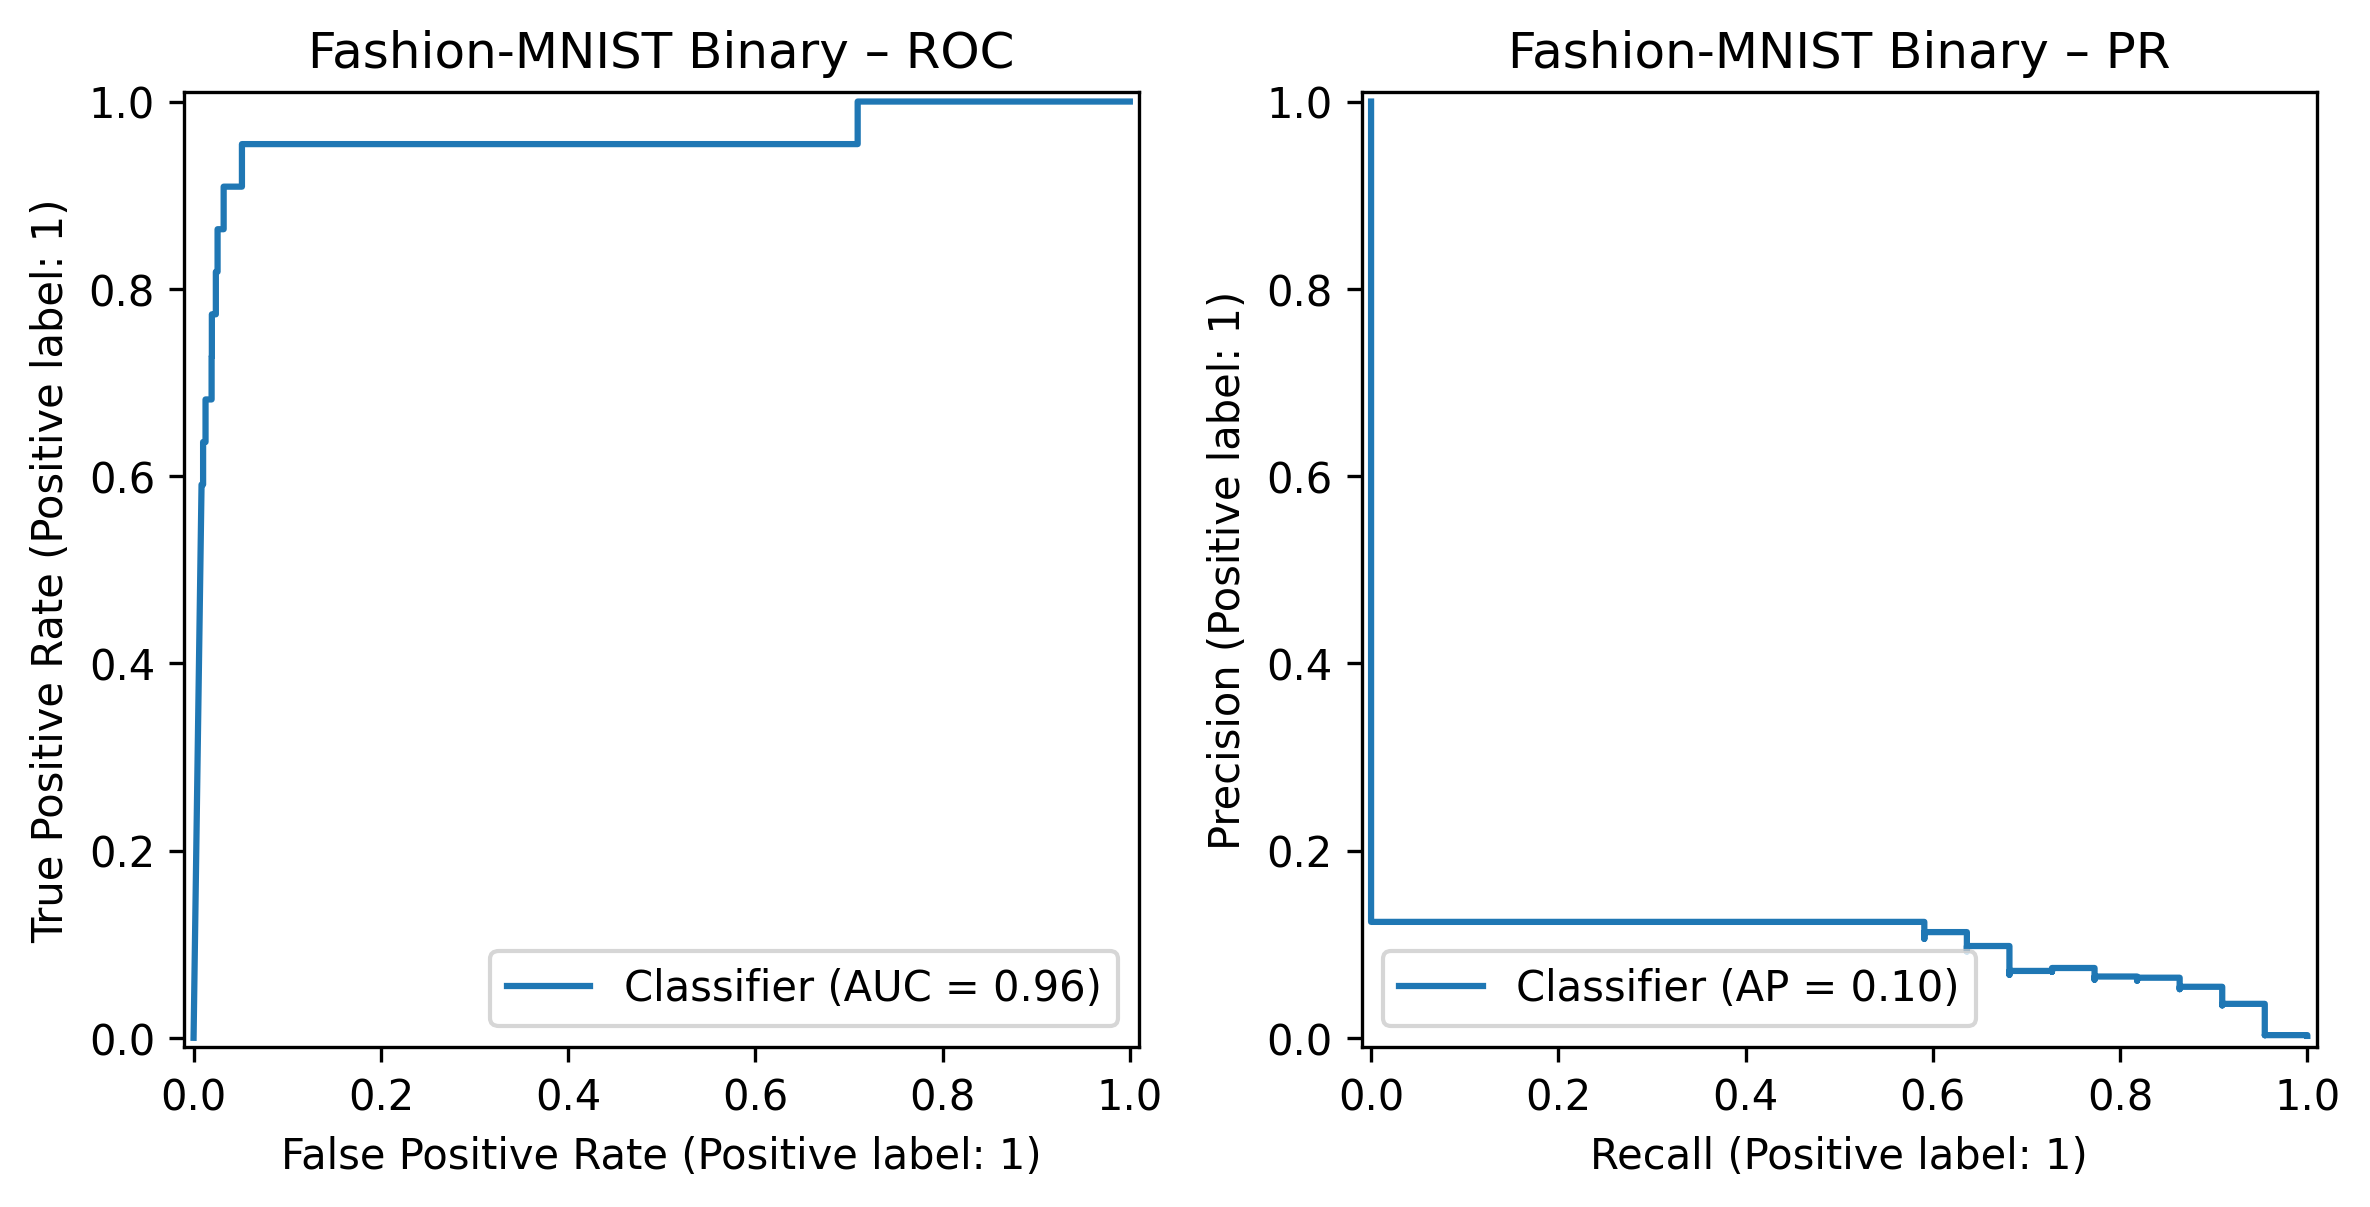
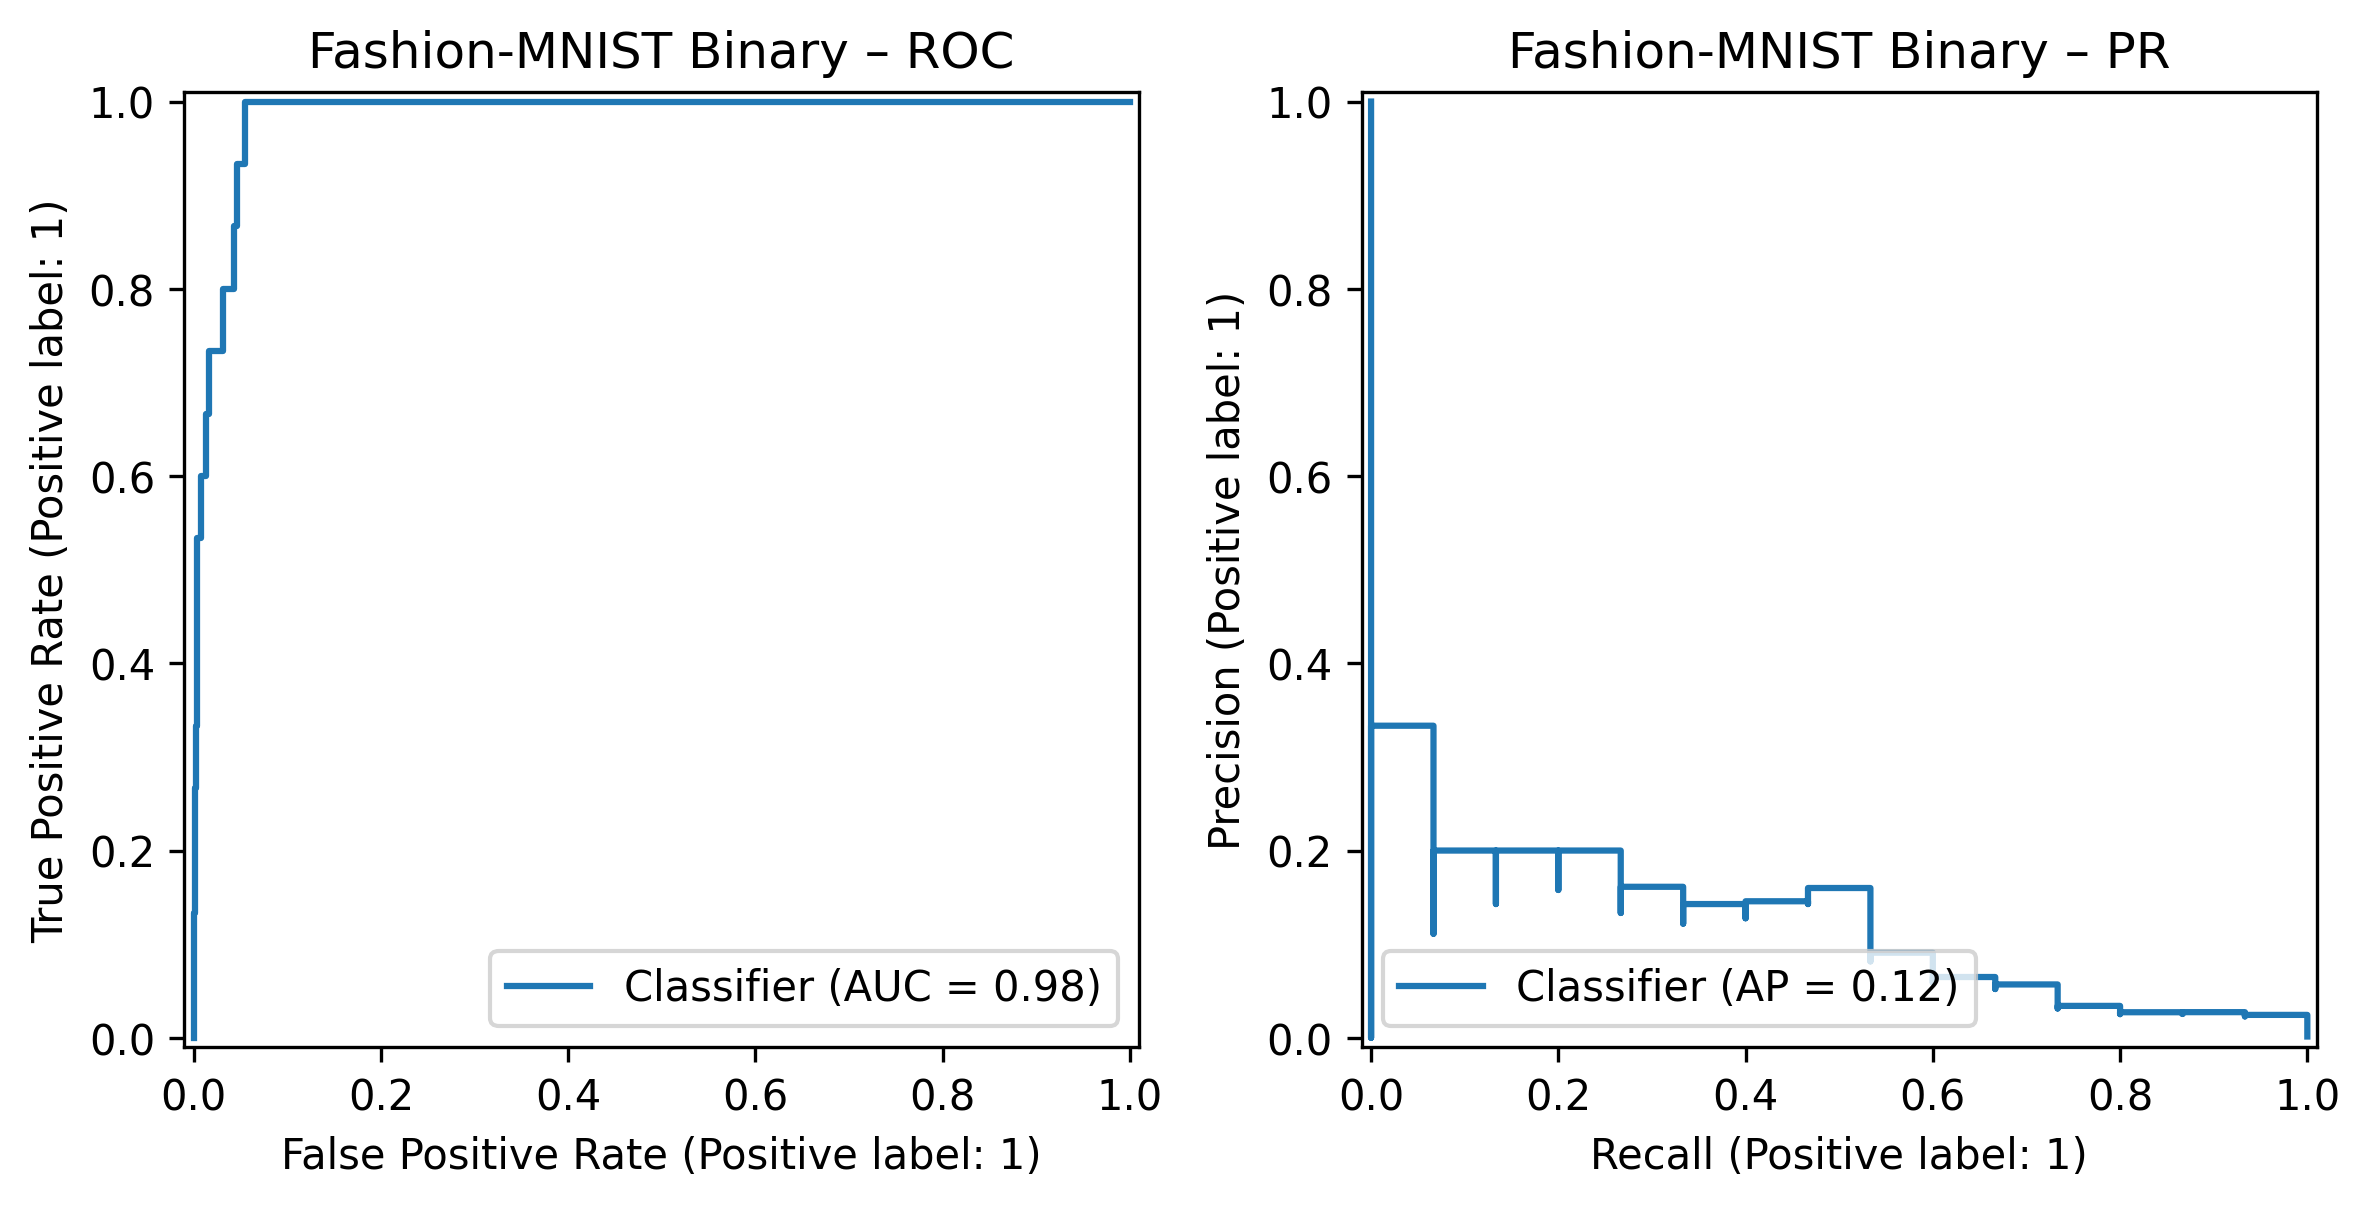
New Graphs and Final Adjustments

diff --git a/main.tex b/main.tex
@@ -101,12 +101,18 @@ and confusion matrices. We evaluate three datasets to show how imbalance severit
 \end{itemize}
 \end{block}
 
+\begin{block}{Why Accuracy Fails Under Imbalance}
+With only 2\% minority samples, always predicting the majority gives 98\% accuracy. 
+ROC-AUC also remains high even for poor minority recall.
+PR-AUC is needed to evaluate minority detection.
+\end{block}
+
 \begin{block}{Breast Cancer Results}
 \centering
 % --- Class Weights ---
 \includegraphics[width=\linewidth]{images/bc_confusion_weights.png}\\[0.5em]
 \small\textbf{Class Weights – Confusion matrix.}
-Most negatives are classified correctly, but only about half of the positives are detected.
+Class weights help the model detect positives better, but recall remains unstable due to the extremely small number of minority samples.
 
 \vspace{1.8em}
 
@@ -155,55 +161,80 @@ ROC-AUC is close to 1.0, and the PR curve shows high precision even at high reca
 
 \end{block}
 
+\begin{block}{Results Table}
+\centering
+\begin{tabular}{lccc}
+\textbf{Method} & \textbf{F1} & \textbf{ROC-AUC} & \textbf{PR-AUC} \\ \hline
+Breast Cancer CW & 1.00 & 1.00 & 1.00 \\
+Breast Cancer Smote & 0.62 & 0.94 & 0.64 \\
+MNIST CW & 0.53 & 0.9988 & 0.807 \\
+FMNIST CW & 0.07 & 0.9846 & 0.125 \\
+\end{tabular}
+\end{block}
+
+
+
 
 \end{column}
 
 % RIGHT COLUMN ----------------------------------------------------------
 \begin{column}{0.32\textwidth}
 
+\begin{block}{Digit Difficulty Under Class Imbalance}
+\small
+Different MNIST digits suffer from imbalance in different ways:
+
+\begin{itemize}
+    \item \textbf{Digits 0 and 1} remain easy to detect even when rare  
+          (PR-AUC: 0.88–0.95).  
+          Their shapes are simple and distinct → low confusion.
+    
+    \item \textbf{Digits 8 and 9} collapse under imbalance  
+          (PR-AUC: 0.33–0.36).  
+          They are visually similar to multiple other digits  
+          (8 ↔ 3, 0, 9; 9 ↔ 4, 7).
+    
+    \item \textbf{Accuracy and ROC-AUC stay high}, but do not reflect the real difficulty.
+    
+    \item \textbf{PR-AUC reveals true minority-class performance}, showing large drops for complex digits.
+\end{itemize}
+
+\begin{center}
+\includegraphics[width=\linewidth]{images/mnist_pr_auc_digits.png}\\
+\small{PR-AUC comparison for minority digits 0, 1, 8, and 9.}
+\end{center}
+
+\end{block}
+
+
 \begin{block}{Fashion-MNIST Binary Results}
 \centering
 
-
+ 
 
 % --- Fashion MNIST ---
 \includegraphics[width=\linewidth]{images/fmnist_confusion.png}\\[0.5em]
 \small\textbf{Fashion-MNIST – Confusion matrix.}\\
 T-shirt/top detection is harder: more overlap with other clothing categories, leading to lower minority recall.\\[1.0em]
 
-
-\vspace{1.8em}
-
-
 \includegraphics[width=\linewidth]{images/fmnist_roc_pr.png}\\[0.5em]
 \small\textbf{Fashion-MNIST – ROC \& PR.}\\
-ROC is strong, but the PR-AUC drops noticeably — a sign that class imbalance is much more challenging here.
+ROC is strong, but the PR-AUC drops noticeably, a sign that class imbalance is much more challenging here.
 
 \normalsize
 \end{block}
 
 
-\begin{block}{Results Table}
-\begin{tabular}{lccc}
-\textbf{Method} & \textbf{F1} & \textbf{ROC-AUC} & \textbf{PR-AUC} \\ \hline
-Class Weights & 0.87 & 0.92 & 0.56 \\
-SMOTE         & 0.90 & 0.96 & 0.79 \\
-MNIST CW      & 1.00 & 0.99 & 0.73 \\
-FMNIST CW     & 0.86 & 0.96 & 0.10 \\
-\end{tabular}
-\end{block}
-
-\vspace{1.0em}
-
 \begin{block}{Conclusion}
 \begin{itemize}
-    \item SMOTE significantly improves minority recall.
-    \item Class weighting is stable and simple for tabular data.
-    \item MNIST shows strong separability even under imbalance.
-    \item FMNIST is significantly harder, visible from low PR-AUC.
-    \item ROC-AUC is misleadingly high under extreme imbalance (important insight!).
+    \item Class weighting performs extremely well on Breast Cancer data. SMOTE increases recall but may reduce precision, lowering F1 and PR-AUC.
+    \item MNIST remains highly separable even under extreme imbalance (2\% minority).
+    \item Fashion-MNIST is far more difficult: PR-AUC collapses despite a high ROC-AUC.
+    \item ROC-AUC can be misleading under imbalance; PR-AUC is the reliable metric.
+    \item Digit-wise MNIST imbalance shows large difficulty differences: 1 is easy, while 8 and 9 are much harder.
 \end{itemize}
 \end{block}
+
 
 
 \end{column}
@@ -229,7 +260,7 @@ FMNIST CW     & 0.86 & 0.96 & 0.10 \\
     \node[anchor=south west, xshift=1.2cm, yshift=0.8cm] at (current page.south west)
         {\begingroup
             \color{white}%
-            \includegraphics[height=2.5cm]{images/Technische_Universität_Dortmund_Logo.png}%
+            \includegraphics[height=2.5cm]{images/tu.png}%
         \endgroup};
 
 \end{tikzpicture}

diff --git a/experiments/run_mnist_multi_digit.py b/experiments/run_mnist_multi_digit.py
@@ -1,0 +1,73 @@
+import numpy as np
+import torch
+from torch.utils.data import DataLoader, TensorDataset
+from sklearn.utils.class_weight import compute_class_weight
+
+from data.load_mnist_binary import load_mnist_binary_digit
+from models.simple_nn import SimpleNN
+from utils.training import train
+from utils.evaluation import evaluate
+from utils.plotting import plot_pr_auc_comparison 
+
+def run_digit(minority_digit):
+    X_train, X_test, y_train, y_test = load_mnist_binary_digit(minority_digit=minority_digit)
+
+    device = "cuda" if torch.cuda.is_available() else "cpu"
+    model = SimpleNN(X_train.shape[1]).to(device)
+
+    weights = compute_class_weight("balanced", classes=np.unique(y_train), y=y_train)
+    weights = torch.tensor(weights, dtype=torch.float).to(device)
+
+    criterion = torch.nn.CrossEntropyLoss(weight=weights)
+    optimizer = torch.optim.Adam(model.parameters(), lr=0.001)
+
+    loader = DataLoader(
+        TensorDataset(torch.tensor(X_train, dtype=torch.float),
+                      torch.tensor(y_train, dtype=torch.long)),
+        batch_size=64,
+        shuffle=True
+    )
+
+    for epoch in range(5):
+        train(model, loader, criterion, optimizer, device)
+
+    results = evaluate(model, X_test, y_test, device)
+
+    return {
+        "digit": minority_digit,
+        "roc_auc": results["roc_auc"],
+        "pr_auc": results["pr_auc"],
+        "report": results["report"]
+    }
+
+
+def run():
+    digits = [0, 1, 8, 9]
+    all_results = []
+
+    for d in digits:
+        print(f"\n--- Minority class: digit {d} ---")
+        res = run_digit(d)
+        print(res["report"])
+        print("ROC-AUC:", res["roc_auc"])
+        print("PR-AUC:", res["pr_auc"])
+        all_results.append(res)
+
+    return all_results
+
+
+def run():
+    digits = [0, 1, 8, 9]
+    all_results = []
+
+    for d in digits:
+        print(f"\n--- Minority class: digit {d} ---")
+        res = run_digit(d)
+        print(res["report"])
+        print("ROC-AUC:", res["roc_auc"])
+        print("PR-AUC:", res["pr_auc"])
+        all_results.append(res)
+
+    plot_pr_auc_comparison(all_results, filename="mnist_pr_auc_digits.png")
+
+    return all_results

diff --git a/data/load_mnist_binary.py b/data/load_mnist_binary.py
@@ -19,3 +19,23 @@ def load_mnist(minority_ratio=0.02):
     X_imb, y_imb = create_imbalance(X, y, minority_class=1, minority_ratio=minority_ratio)
 
     return train_test_split(X_imb, y_imb, test_size=0.2, random_state=42)
+
+
+
+def load_mnist_binary_digit(minority_digit=0, minority_ratio=0.02):
+    transform = transforms.Compose([
+        transforms.ToTensor(),
+        transforms.Lambda(lambda x: x.view(-1))
+    ])
+
+    mnist = datasets.MNIST(root="./", train=True, download=True, transform=transform)
+
+    X = mnist.data.numpy().reshape(-1, 28*28) / 255.0
+    y = (mnist.targets.numpy() == minority_digit).astype(int)
+
+    X_imb, y_imb = create_imbalance(
+        X, y, minority_class=1, minority_ratio=minority_ratio
+    )
+
+    return train_test_split(X_imb, y_imb, test_size=0.2, random_state=42)
+

diff --git a/utils/plotting.py b/utils/plotting.py
@@ -73,3 +73,21 @@ def plot_roc_pr(y_true, y_score, title_prefix, filename, pos_label=1):
     plt.savefig(out_path, bbox_inches="tight")
     plt.close(fig)
     print(f"Saved ROC/PR curves to {out_path}")
+
+
+def plot_pr_auc_comparison(results, filename="mnist_pr_auc_digits.png"):
+
+    digits = [r["digit"] for r in results]
+    pr_values = [r["pr_auc"] for r in results]
+
+    plt.figure(figsize=(6,4))
+    plt.bar([str(d) for d in digits], pr_values, 
+            color=["#4CAF50","#8BC34A","#FFC107","#F44336"])
+    plt.xlabel("Minority Digit")
+    plt.ylabel("PR-AUC")
+    plt.title("PR-AUC by Minority Digit under 2% Imbalance")
+
+    plt.savefig(f"figures/{filename}", dpi=300, bbox_inches="tight")
+    plt.close()
+
+

diff --git a/main.py b/main.py
@@ -2,6 +2,7 @@ from experiments.run_breast_cancer import run as exp_breast
 from experiments.run_breast_cancer_smote import run as exp_smote
 from experiments.run_mnist_binary import run as exp_mnist
 from experiments.run_fmnist_binary import run as exp_fmnist
+from experiments.run_mnist_multi_digit import run as exp_mnist_multi
 
 
 if __name__ == "__main__":
@@ -16,3 +17,6 @@ if __name__ == "__main__":
 
     print("\n=== Running Fashion-MNIST Binary (Class Weights) ===")
     exp_fmnist()
+
+    print("\n=== Running MNIST multi-digit imbalance experiment ===")
+    exp_mnist_multi()
